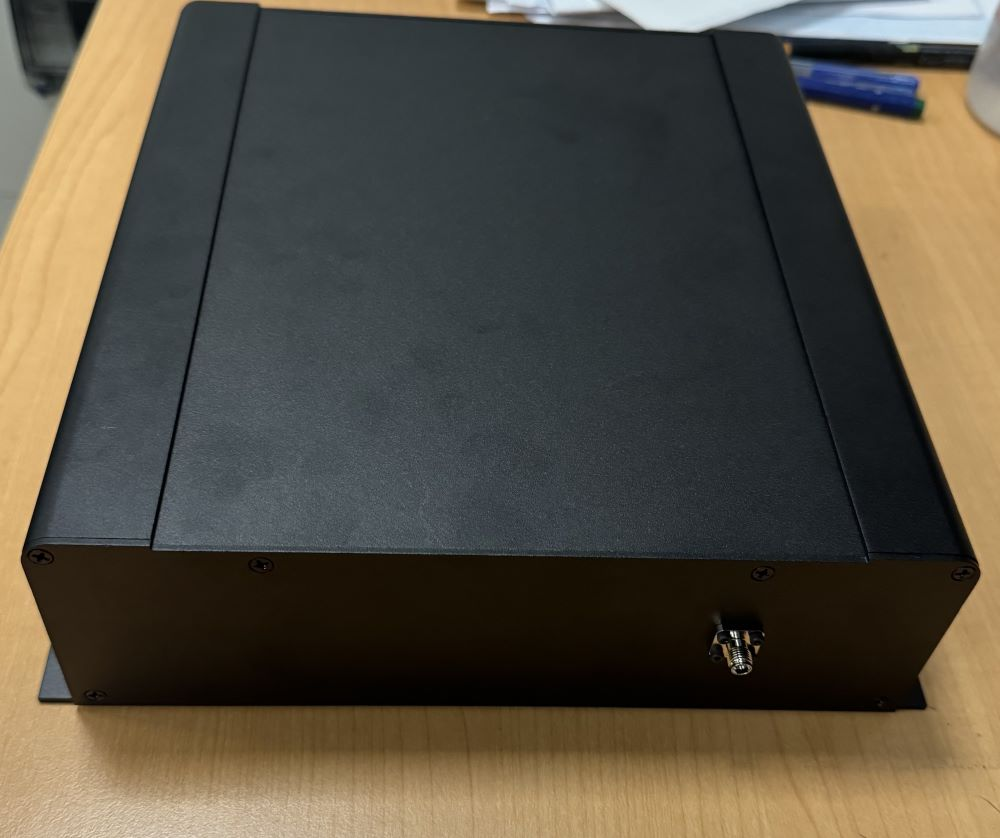
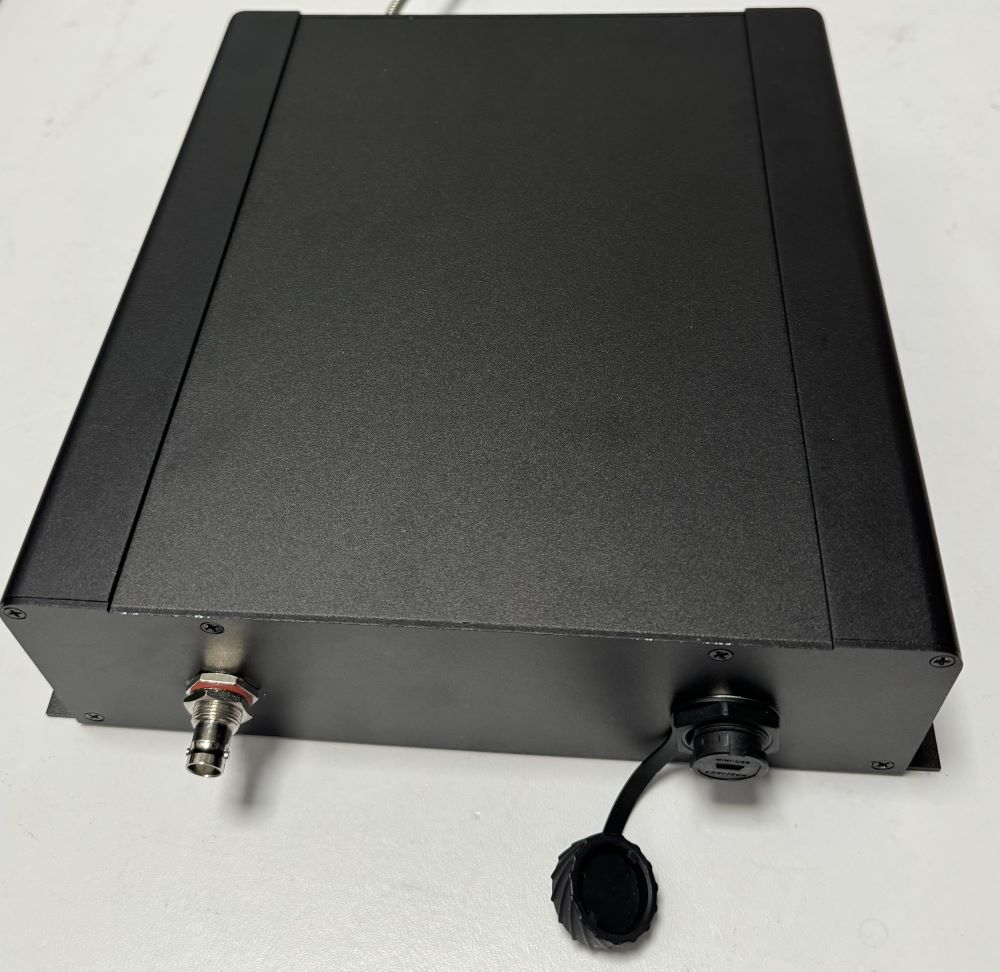
Add

diff --git a/spectrometer.html b/spectrometer.html
@@ -90,14 +90,14 @@
 			<ul>
 				<li><img src="images/Spectrometer-front1.jpg" onmouseover="changeImage('images/Spectrometer-front1.jpg')"></li>
 				<li><img src="images/Spectrometer-front2.jpg" onmouseover="changeImage('images/Spectrometer-front2.jpg')"></li>
-				<li><img src="images/Phase-Lock-Device-front2.jpg" onmouseover="changeImage('images/Phase-Lock-Device-front2.jpg')"></li>
+				<li><img src="images/Spectrometer-front3.jpg" onmouseover="changeImage('images/Spectrometer-front3.jpg')"></li>
 				<li><img src="images/Spectrometer-front4.png" onmouseover="changeImage('images/Spectrometer-front4.png')"></li>
 			</ul>
 		</div>
 		<div class="phase-lock-right">
 			<h3>Spectrometer for transient absorption setup</h3>	
 			<p>
-				Designed for pump-probe experiments, the easiest way to determine the pump on and pump off pulse
+				Designed for pump-probe experiments, with high collection efficiency and sensitivity.
 			</p>
 			<ul>
 				<li>High collection efficiency</li>
@@ -116,13 +116,13 @@
 		<div>
 			<h1>Product Overview</h1>
 			<p>
-				The Phase Lock Device is a setup engineered to deliver precise output based on the status of the input trigger signal and the chopper input signal. This device is primarily used in transient absorption experiments, where by connecting the output signal to a spectrometer, each data acquisition starts with a pulse containing the pump light, thereby achieving the goal of locking the positive and negative phases of the transient absorption. This device features a Type-C port, used for power supply and connecting to a PC, enabling control through the LabVIEW software via this connection. The specially designed circuit board is optimized for high-speed processing. This allows for real-time signal processing with an impressively low delay of less than 20 ns between the input and output triggers. Furthermore, the device's efficient low-power consumption design not only minimizes energy usage but also significantly enhances its longevity and reliability.<br>
+				This spectrometer is designed for transient absorption spectroscopy experiments. By using our phase lock setup to generate trigger signal for this spectrometer, it is very easy to separate the probe spectrum with and without the pump. This device features a USB port, used for power supply and connecting to a PC, enabling control through the LabVIEW software via this connection. The specially designed circuit board is optimized for high-speed processing. This allows for 16 bit A/D resolution with 10 M/s clock, the maximum line rate can go up to 4 kHz. Furthermore, the device's efficient low-power consumption design not only minimizes energy usage but also significantly enhances its longevity and reliability.<br>
 				<img class="phase-lock-diagram-pic" src="images/Phase-Lock-Device-diagram.PNG" alt="Phase lock device applicated in transient absorption experiments">
 				<span class="application-pic-title">Phase lock devcie input and output</span>
 			</p>
 			<h1>Applications</h1>
 			<p>
-				The Phase Lock Device is superbly suited for transient absorption spectroscopy and experiments employing pump-probe techniques, including 2D Electronic Spectroscopy (2D ES), Transient Absorption Imaging (TAM). It proficiently differentiates between probe spectra in the presence or absence of pump pulses. Additionally, we offer a LabVIEW subVI for straightforward integration with your existing LabVIEW control software, enhancing its ease of use in various experimental setups.<br>
+				The spectrometer is superbly suited for transient absorption spectroscopy and experiments employing pump-probe techniques, including 2D Electronic Spectroscopy (2D ES), Transient Absorption Imaging (TAM). It proficiently differentiates between probe spectra in the presence or absence of pump pulses. Additionally, we offer a LabVIEW subVI for straightforward integration with your existing LabVIEW control software, enhancing its ease of use in various experimental setups.<br>
 				<img class="phase-lock-application-pic" src="images/Phase-Lock-Device-application.PNG" alt="Phase lock device applicated in transient absorption experiments"><br>
 				<span class="application-pic-title">Application idea for transient absorption experiments</span>
 			</p>
